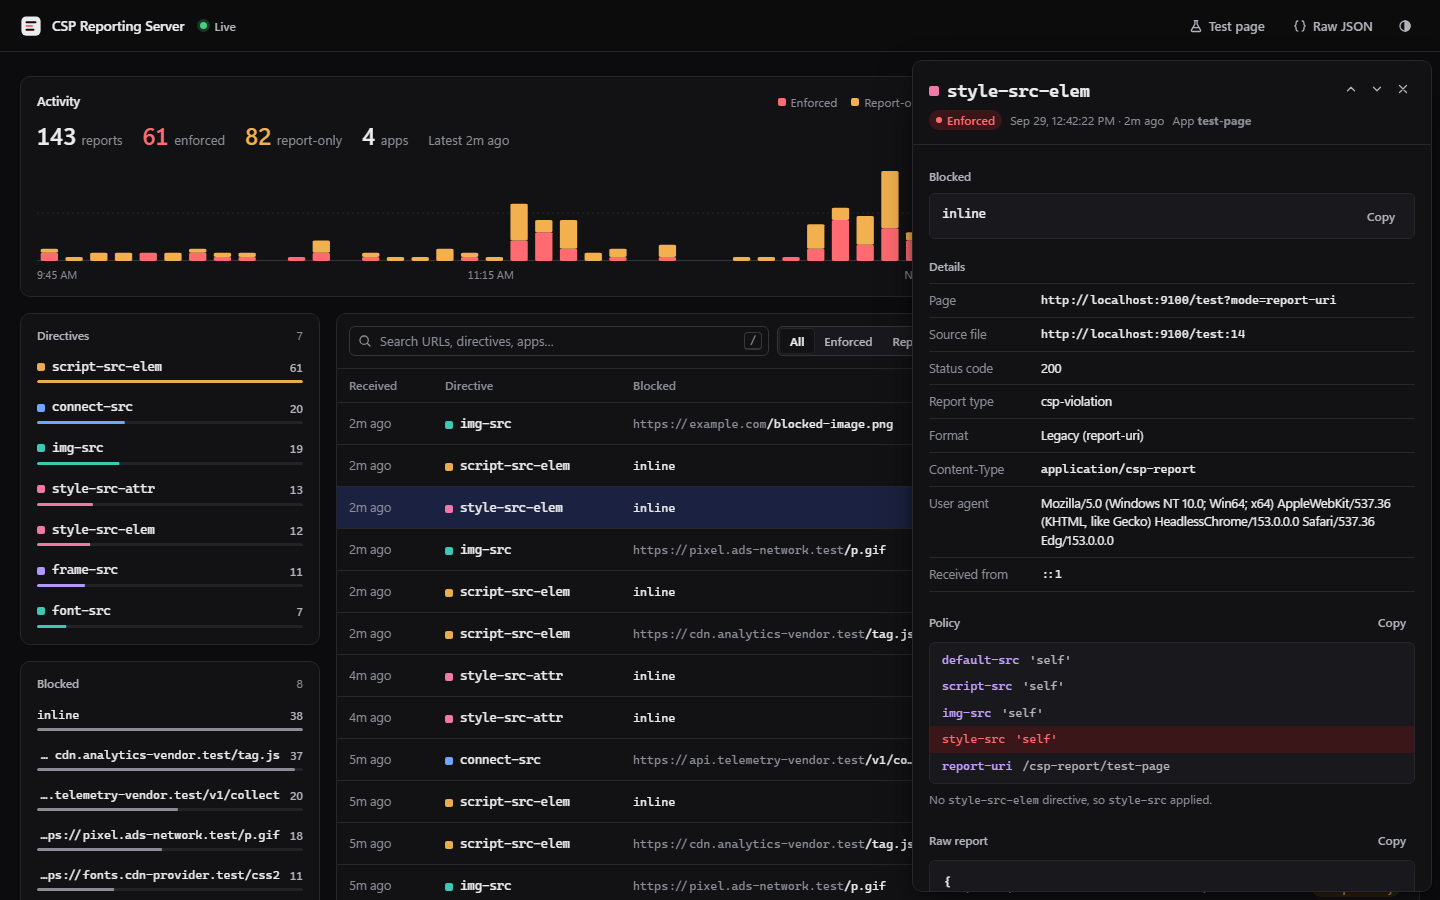
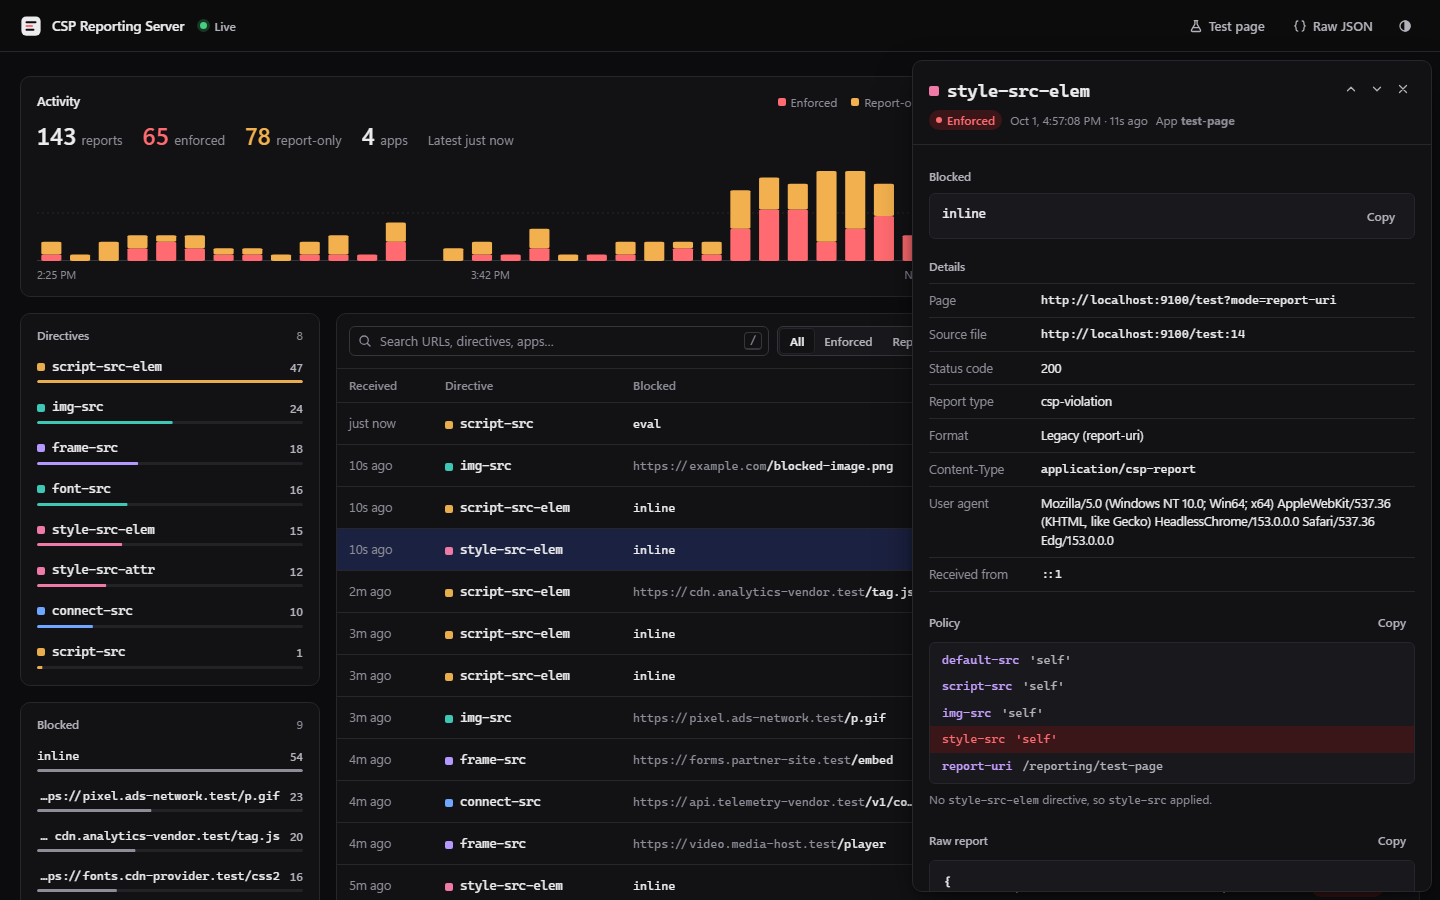
Add /reporting/<name> as the single ingestion endpoint
Both report-to and report-uri now post to /reporting/<app-name>. The
name after /reporting/ is free-form and identifies the source. /reports
and /csp-report remain as aliases so existing configurations keep
working. App Service Authentication excludes /reporting; existing
deployments need to re-run the Bicep. Screenshots re-captured.

diff --git a/test/server.test.js b/test/server.test.js
@@ -54,7 +54,7 @@ test('parses legacy report-uri reports', () => {
 });
 
 test('accepts application/reports+json and exposes it via the API', async () => {
-  const res = await fetch(`${base}/reports/my-app`, {
+  const res = await fetch(`${base}/reporting/my-app`, {
     method: 'POST',
     headers: { 'Content-Type': 'application/reports+json', Origin: 'https://app.example' },
     body: JSON.stringify([
@@ -69,17 +69,44 @@ test('accepts application/reports+json and exposes it via the API', async () => 
   assert.equal(data.reports[0].effectiveDirective, 'img-src');
 });
 
-test('accepts application/csp-report', async () => {
-  const res = await fetch(`${base}/csp-report`, {
+test('accepts application/csp-report on /reporting and records the source', async () => {
+  const res = await fetch(`${base}/reporting/legacy-app`, {
     method: 'POST',
     headers: { 'Content-Type': 'application/csp-report' },
     body: JSON.stringify({ 'csp-report': { 'document-uri': 'https://a/', 'effective-directive': 'style-src-elem' } }),
   });
   assert.equal(res.status, 204);
+  const data = await (await fetch(`${base}/api/reports?source=legacy-app`)).json();
+  assert.equal(data.count, 1);
+  assert.equal(data.reports[0].format, 'report-uri');
+});
+
+test('still accepts the legacy /reports and /csp-report paths', async () => {
+  const to = await fetch(`${base}/reports/old-to`, {
+    method: 'POST',
+    headers: { 'Content-Type': 'application/reports+json' },
+    body: JSON.stringify([{ type: 'csp-violation', url: 'https://a/', body: { effectiveDirective: 'img-src' } }]),
+  });
+  assert.equal(to.status, 204);
+  const uri = await fetch(`${base}/csp-report`, {
+    method: 'POST',
+    headers: { 'Content-Type': 'application/csp-report' },
+    body: JSON.stringify({ 'csp-report': { 'document-uri': 'https://a/', 'effective-directive': 'style-src-elem' } }),
+  });
+  assert.equal(uri.status, 204);
+});
+
+test('rejects nested names under /reporting', async () => {
+  const res = await fetch(`${base}/reporting/team/my-app`, {
+    method: 'POST',
+    headers: { 'Content-Type': 'application/reports+json' },
+    body: '[]',
+  });
+  assert.equal(res.status, 404);
 });
 
 test('handles CORS preflight', async () => {
-  const res = await fetch(`${base}/reports`, {
+  const res = await fetch(`${base}/reporting`, {
     method: 'OPTIONS',
     headers: { Origin: 'https://app.example', 'Access-Control-Request-Method': 'POST' },
   });
@@ -88,9 +115,9 @@ test('handles CORS preflight', async () => {
 });
 
 test('rejects unsupported content types and bad JSON', async () => {
-  const bad = await fetch(`${base}/reports`, { method: 'POST', headers: { 'Content-Type': 'text/plain' }, body: 'x' });
+  const bad = await fetch(`${base}/reporting`, { method: 'POST', headers: { 'Content-Type': 'text/plain' }, body: 'x' });
   assert.equal(bad.status, 415);
-  const invalid = await fetch(`${base}/reports`, {
+  const invalid = await fetch(`${base}/reporting`, {
     method: 'POST',
     headers: { 'Content-Type': 'application/reports+json' },
     body: '{nope',
@@ -102,13 +129,13 @@ test('test page sends CSP and Reporting-Endpoints headers', async () => {
   const res = await fetch(`${base}/test`);
   assert.equal(res.status, 200);
   assert.match(res.headers.get('content-security-policy'), /report-to csp-endpoint/);
-  assert.match(res.headers.get('content-security-policy'), /report-uri /);
-  assert.match(res.headers.get('reporting-endpoints'), /csp-endpoint="http:\/\/.+\/reports\/test-page"/);
+  assert.match(res.headers.get('content-security-policy'), /report-uri \/reporting\/test-page/);
+  assert.match(res.headers.get('reporting-endpoints'), /csp-endpoint="http:\/\/.+\/reporting\/test-page"/);
 });
 
 test('test page honors X-Forwarded-Proto behind a TLS-terminating proxy', async () => {
   const res = await fetch(`${base}/test`, { headers: { 'X-Forwarded-Proto': 'https' } });
-  assert.match(res.headers.get('reporting-endpoints'), /csp-endpoint="https:\/\/.+\/reports\/test-page"/);
+  assert.match(res.headers.get('reporting-endpoints'), /csp-endpoint="https:\/\/.+\/reporting\/test-page"/);
 });
 
 test('test page mode selects report-to or report-uri only', async () => {

diff --git a/server.js b/server.js
@@ -25,6 +25,9 @@ const ACCEPTED_CONTENT_TYPES = new Set([
   'application/json',
 ]);
 
+// First path segment of the ingestion endpoint. 'reporting' is current; the others are legacy aliases.
+const INGEST_PREFIXES = new Set(['reporting', 'reports', 'csp-report']);
+
 /** @type {object[]} */
 let reports = [];
 const sseClients = new Set();
@@ -229,9 +232,9 @@ function requestScheme(req) {
  * Browsers that support report-to ignore report-uri when both are present.
  */
 function testPageHeaders(req, mode) {
-  const endpoint = `${requestScheme(req)}://${req.headers.host}/reports/test-page`;
+  const endpoint = `${requestScheme(req)}://${req.headers.host}/reporting/test-page`;
   const directives = ["default-src 'self'", "script-src 'self'", "img-src 'self'", "style-src 'self'"];
-  if (mode !== 'report-to') directives.push('report-uri /csp-report/test-page');
+  if (mode !== 'report-to') directives.push('report-uri /reporting/test-page');
   if (mode !== 'report-uri') directives.push('report-to csp-endpoint');
   const headers = {
     'Content-Security-Policy': directives.join('; '),
@@ -272,8 +275,9 @@ async function handler(req, res) {
   const parts = pathname.split('/').filter(Boolean);
 
   try {
-    // Report ingestion: /reports[/:source] (report-to) and /csp-report[/:source] (report-uri).
-    if ((parts[0] === 'reports' || parts[0] === 'csp-report') && parts.length <= 2) {
+    // Report ingestion: /reporting[/:source] accepts either format. /reports and /csp-report
+    // are kept as aliases so endpoints configured before /reporting keep working.
+    if (INGEST_PREFIXES.has(parts[0]) && parts.length <= 2) {
       const source = parts[1] ? decodeURIComponent(parts[1]) : 'default';
       if (req.method === 'OPTIONS') {
         setCorsHeaders(req, res);
@@ -352,8 +356,7 @@ function start() {
     console.log(`CSP reporting server listening on ${base}`);
     console.log(`  Dashboard:          ${base}/`);
     console.log(`  Test page:          ${base}/test`);
-    console.log(`  report-to target:   ${base}/reports/<app-name>`);
-    console.log(`  report-uri target:  ${base}/csp-report/<app-name>`);
+    console.log(`  Report endpoint:    ${base}/reporting/<app-name> (report-to and report-uri)`);
     console.log(`  Loaded ${reports.length} stored report(s) from ${DATA_FILE}`);
   });
   return server;

diff --git a/public/dashboard.js b/public/dashboard.js
@@ -697,7 +697,8 @@
 
   function endpoints() {
     const app = encodeURIComponent(appSlug());
-    return { to: `${location.origin}/reports/${app}`, uri: `${location.origin}/csp-report/${app}` };
+    const url = `${location.origin}/reporting/${app}`;
+    return { to: url, uri: url };
   }
 
   function headerText() {

diff --git a/README.md b/README.md
@@ -1,6 +1,6 @@
 # CSP Reporting Server
 
-> **Why this exists:** This project was created to monitor CSP blocks in [Power Apps code apps](https://learn.microsoft.com/power-apps/developer/code-apps/how-to/content-security-policy). An administrator can configure a [reporting endpoint](https://learn.microsoft.com/power-apps/developer/code-apps/how-to/content-security-policy#report-csp-violations) for code apps' Content Security Policy, and the browser sends a report every time the policy blocks something (or would block it, in report-only mode). This server is that endpoint. Set the reporting endpoint to `https://<your-host>/reports/<app-name>`, then watch what the policy blocks and tighten it with confidence. Both endpoint paths accept either report format. It works just as well for any other web app.
+> **Why this exists:** This project was created to monitor CSP blocks in [Power Apps code apps](https://learn.microsoft.com/power-apps/developer/code-apps/how-to/content-security-policy). An administrator can configure a [reporting endpoint](https://learn.microsoft.com/power-apps/developer/code-apps/how-to/content-security-policy#report-csp-violations) for code apps' Content Security Policy, and the browser sends a report every time the policy blocks something (or would block it, in report-only mode). This server is that endpoint. Set the reporting endpoint to `https://<your-host>/reporting/<app-name>`, then watch what the policy blocks and tighten it with confidence. That endpoint accepts either report format. It works just as well for any other web app.
 
 A small, dependency-free Node.js server that collects [Reporting API](https://developer.mozilla.org/en-US/docs/Web/API/Reporting_API) reports, with a focus on Content Security Policy (CSP) violations. Point your apps at it, then triage what your policy blocks in a live dashboard.
 
@@ -41,15 +41,17 @@ npm start          # http://localhost:9000
 
 | Mechanism | CSP directive | Content-Type | Endpoint |
 |---|---|---|---|
-| Reporting API (modern) | `report-to <name>` + `Reporting-Endpoints` header | `application/reports+json` | `/reports/<app-name>` |
-| Legacy | `report-uri <url>` | `application/csp-report` | `/csp-report/<app-name>` |
+| Reporting API (modern) | `report-to <name>` + `Reporting-Endpoints` header | `application/reports+json` | `/reporting/<app-name>` |
+| Legacy | `report-uri <url>` | `application/csp-report` | `/reporting/<app-name>` |
 
-`<app-name>` is optional and tells apps apart. The dashboard's **Connect an app** panel generates these values for you. For example:
+Both mechanisms post to the same endpoint. `<app-name>` is anything you choose after `/reporting/` that identifies where the reports come from, such as `https://contoso.com/reporting/my-app`. It shows up as the app name in the dashboard. Use a single path segment (letters, numbers, `.`, `_`, and `-`; no `/`). If you leave it off, reports are filed under `default`. The dashboard's **Connect an app** panel generates these values for you. For example:
 
 ```http
-Reporting-Endpoints: csp-endpoint="https://reports.example.com/reports/my-app"
-Content-Security-Policy-Report-Only: default-src 'self'; report-to csp-endpoint; report-uri https://reports.example.com/csp-report/my-app
+Reporting-Endpoints: csp-endpoint="https://reports.example.com/reporting/my-app"
+Content-Security-Policy-Report-Only: default-src 'self'; report-to csp-endpoint; report-uri https://reports.example.com/reporting/my-app
 ```
+
+The earlier `/reports/<app-name>` and `/csp-report/<app-name>` paths are still accepted, so existing configurations keep working.
 
 Use `Content-Security-Policy` instead of `-Report-Only` to enforce. Reports are sent cross-origin, so the server answers CORS preflight (`OPTIONS`) requests and reflects the request `Origin`.
 
@@ -80,7 +82,7 @@ npm run start:https   # https://localhost:9443
 
 | Method | Path | Description |
 |---|---|---|
-| `POST` | `/reports[/<app>]`, `/csp-report[/<app>]` | Ingest reports (returns `204`) |
+| `POST` | `/reporting[/<app>]` (legacy: `/reports`, `/csp-report`) | Ingest reports in either format (returns `204`) |
 | `GET` | `/api/reports?type=&source=` | List stored reports (optional filters) |
 | `DELETE` | `/api/reports` | Clear all reports |
 | `GET` | `/api/stream` | Server-Sent Events stream (`report`, `cleared`) |
@@ -89,7 +91,7 @@ npm run start:https   # https://localhost:9443
 Example:
 
 ```sh
-curl -X POST http://localhost:9000/reports/my-app -H "Content-Type: application/reports+json" \
+curl -X POST http://localhost:9000/reporting/my-app -H "Content-Type: application/reports+json" \
   -d '[{"type":"csp-violation","url":"https://app.example/","body":{"effectiveDirective":"img-src","blockedURL":"https://evil.example/x.png","disposition":"enforce"}}]'
 ```
 
@@ -106,7 +108,7 @@ curl -X POST http://localhost:9000/reports/my-app -H "Content-Type: application/
 
 ## Deploy to Azure (optional)
 
-`infra/` contains Bicep for **Azure App Service (Linux, Node 22, F1 Free tier)** plus Log Analytics and Application Insights. **App Service Authentication (Microsoft Entra ID)** protects the dashboard, `/api/*`, and `/test`. `/reports`, `/csp-report`, and `/health` stay anonymous so browsers can deliver reports. Reports persist to `/home/data`.
+`infra/` contains Bicep for **Azure App Service (Linux, Node 22, F1 Free tier)** plus Log Analytics and Application Insights. **App Service Authentication (Microsoft Entra ID)** protects the dashboard, `/api/*`, and `/test`. `/reporting` (plus the legacy `/reports` and `/csp-report`) and `/health` stay anonymous so browsers can deliver reports. Reports persist to `/home/data`. If you deployed before `/reporting` existed, re-run step 3 so App Service Authentication lets it through; otherwise browsers get redirected to sign in instead of delivering reports.
 
 1. **Choose a globally unique `environmentName`** (3–40 characters). The web app becomes `app-<environmentName>.azurewebsites.net`, and the other resources are `rg-`, `asp-`, `log-`, and `appi-<environmentName>`. Edit `infra/main.parameters.json`, or pass `environmentName=...` on the command line.
 2. **Create the Entra app registration** used for sign-in (single-tenant, ID tokens, no client secret):

diff --git a/SECURITY.md b/SECURITY.md
@@ -17,6 +17,6 @@ You should receive an acknowledgment within a few days. Please give reasonable t
 CSP Reporting Server is intentionally small. Read these before exposing it to the internet:
 
 - **The server has no built-in authentication.** Anyone who can reach it can read the dashboard, call `GET /api/reports`, and **delete all reports** with `DELETE /api/reports`. Put it behind an authenticating proxy, such as App Service Authentication (see `infra/`), or keep it on a private network.
-- **Ingestion endpoints (`/reports`, `/csp-report`) must stay anonymous**, because browsers send reports without credentials. They accept any origin (CORS reflects `Origin`) and have no rate limiting. The only abuse limits are a 1 MB body cap (`MAX_BODY_BYTES`) and a 5,000-report in-memory cap (`MAX_REPORTS`). The on-disk NDJSON file grows without bound.
+- **Ingestion endpoints (`/reporting`, plus the legacy `/reports` and `/csp-report`) must stay anonymous**, because browsers send reports without credentials. They accept any origin (CORS reflects `Origin`) and have no rate limiting. The only abuse limits are a 1 MB body cap (`MAX_BODY_BYTES`) and a 5,000-report in-memory cap (`MAX_REPORTS`). The on-disk NDJSON file grows without bound.
 - **Reports can contain sensitive data.** URLs, referrers, and script samples may include tokens, session IDs, or personal data. Treat stored reports accordingly and clear them when you're done.
 - Report contents are untrusted input. The dashboard renders them with `textContent` only and is served under a strict `'self'`-only Content Security Policy.

diff --git a/PRODUCT.md b/PRODUCT.md
@@ -16,7 +16,7 @@ A small, self-hosted collector for browser Reporting API reports, with a focus o
 Zero-dependency, self-hosted, and single-purpose. It accepts both the modern Reporting API (`report-to`, `application/reports+json`) and legacy `report-uri` (`application/csp-report`), normalizes them into one shape, and streams them live. Reports never leave infrastructure the owner controls.
 
 ## Operating Context
-- The owner's apps send `Reporting-Endpoints` + `Content-Security-Policy` headers pointing to `/reports/<app-name>` (report-to) or `/csp-report/<app-name>` (report-uri). `<app-name>` is the "source" used to tell apps apart.
+- The owner's apps send `Reporting-Endpoints` + `Content-Security-Policy` headers pointing to `/reporting/<app-name>`, which accepts both report-to and report-uri. `<app-name>` is any single path segment the owner picks (for example, `/reporting/my-app`) and is the "source" used to tell apps apart. The older `/reports` and `/csp-report` paths remain as aliases.
 - Chromium batches report-to deliveries (up to about 1 minute). Firefox uses report-uri only.
 - The dashboard is used alongside a browser DevTools console while reproducing violations. It updates live over Server-Sent Events.
 - Deployed on Azure App Service (F1). The dashboard, `/api/*`, and `/test` require Entra ID sign-in, while ingestion and `/health` are anonymous. Also run locally over http://localhost:9000 or https://localhost:9443.
